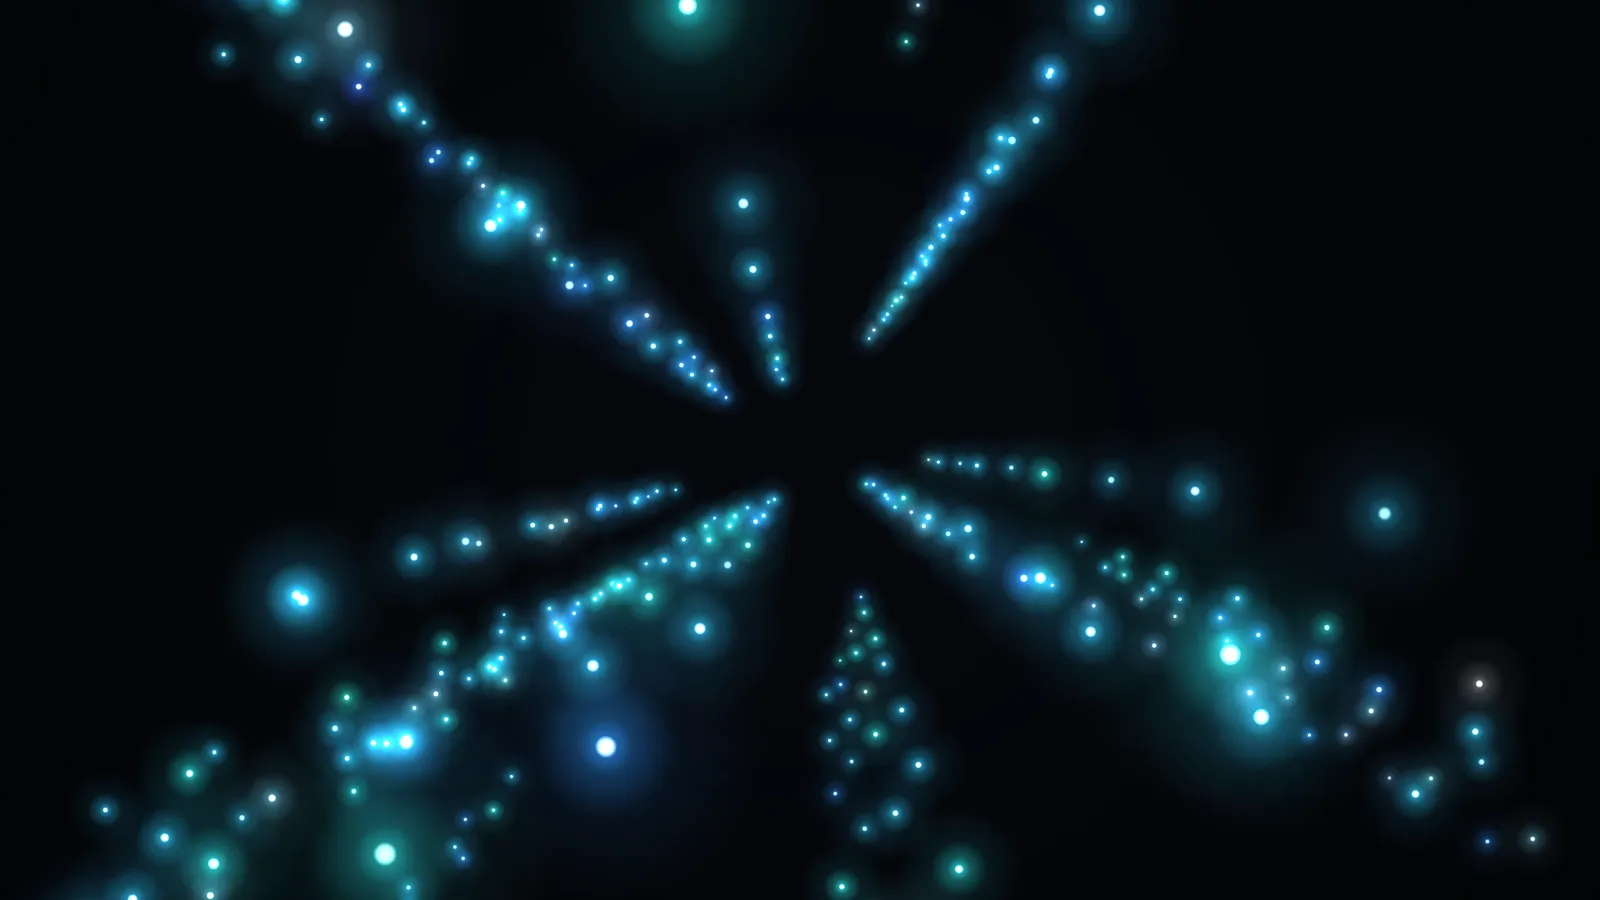
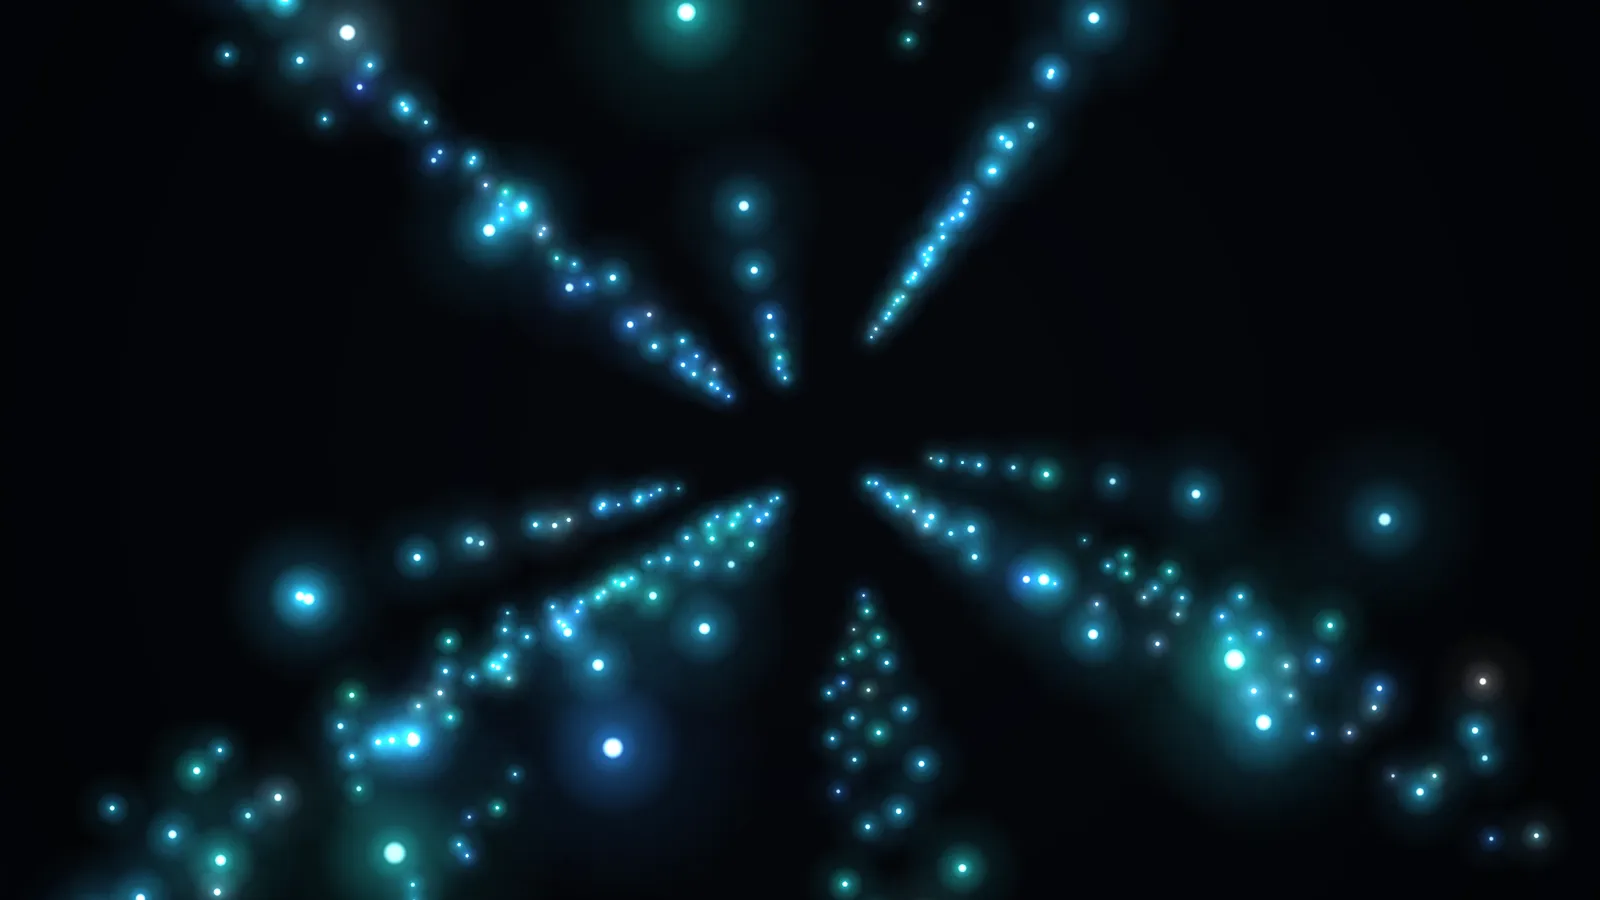
feat(dangler): land on the first preset instead of the raw defaults
Opening the piece gave three stiff strands hanging still — the simplest
thing the machinery can draw, and a fair picture of nothing anybody
would stay for. What it is for is the first preset.

Redirected rather than baked into DEFAULT_SETTINGS. Those are the base
normalizeSettings falls back to and the thing settingsToQuery diffs
against, so moving them would quietly change what every URL already
shared means. The defaults are the vocabulary; which scene is worth
landing on is editorial.

The address is rewritten to match, so a link copied without touching a
control keeps pointing at this scene rather than at whichever preset is
featured later. The rewrite runs last, after the panel/idle/debug/settle
escape hatches have been read from the URL as opened — a spec covers
that, since reading them afterwards would silently stop them working.

The poster recipe now names no preset: it photographs whatever a bare
URL lands on, so the two cannot drift apart.

Also corrects a claim made in the previous commit. Dangler's poster is
not byte-reproducible. The seed fixes the arrangement, but the wind is
derived from the clock too, so the shutter catches the same strands at a
different point in the same breeze.

diff --git a/tests/unit/dangler/settings.test.ts b/tests/unit/dangler/settings.test.ts
@@ -3,8 +3,10 @@ import {
   DEFAULT_SETTINGS,
   PRESETS,
   normalizeSettings,
+  settingsForLanding,
   settingsFromQuery,
   settingsToQuery,
+  urlForSettings,
 } from "@/experiments/dangler/settings"
 
 /**
@@ -62,5 +64,53 @@ describe("presets", () => {
 
   it("has unique labels, since a number key selects one", () => {
     expect(new Set(PRESETS.map((preset) => preset.label)).size).toBe(PRESETS.length)
+  })
+})
+
+/**
+ * What a bare URL means.
+ *
+ * The defaults are three stiff strands hanging still, which is the simplest
+ * thing the machinery can draw and not what the piece is for. Landing shows the
+ * first preset instead — without moving `DEFAULT_SETTINGS`, since those are what
+ * every already-shared URL is written as a diff against.
+ */
+describe("landing", () => {
+  it("shows the first preset when the URL names no settings", () => {
+    const { settings, featured } = settingsForLanding(new URLSearchParams(""))
+    expect(settings).toEqual(normalizeSettings(PRESETS[0]!.settings))
+    expect(featured).toBe(true)
+  })
+
+  it("still shows the first preset when the URL carries only escape hatches", () => {
+    // `panel`, `idle`, `debug` and `settle` are not settings and never appear in
+    // a shared scene, so a URL made only of them carries no scene.
+    const { featured } = settingsForLanding(new URLSearchParams("panel=1&idle=0&settle=1"))
+    expect(featured).toBe(true)
+  })
+
+  it("leaves a URL that names even one setting alone", () => {
+    const { settings, featured } = settingsForLanding(new URLSearchParams("strands=9"))
+    expect(featured).toBe(false)
+    expect(settings.strands).toBe(9)
+    // Everything unnamed stays at the defaults, not at the first preset's values.
+    expect(settings.hue).toBe(DEFAULT_SETTINGS.hue)
+  })
+
+  it("treats blank and unparseable values as naming nothing, exactly as the parser does", () => {
+    // Both of these are skipped by `settingsFromQuery`, so a URL made of them
+    // would otherwise land on the defaults — the state this exists to avoid.
+    expect(settingsForLanding(new URLSearchParams("hue=")).featured).toBe(true)
+    expect(settingsForLanding(new URLSearchParams("hue=nonsense")).featured).toBe(true)
+  })
+
+  it("hands back an address that restores the scene it landed on", () => {
+    const { settings } = settingsForLanding(new URLSearchParams(""))
+    const url = urlForSettings(settings, "/experiments/dangler/")
+    expect(settingsFromQuery(new URLSearchParams(url.split("?")[1]))).toEqual(settings)
+  })
+
+  it("writes no query for a scene that is the defaults", () => {
+    expect(urlForSettings(DEFAULT_SETTINGS, "/experiments/dangler/")).toBe("/experiments/dangler/")
   })
 })

diff --git a/src/experiments/dangler/settings.ts b/src/experiments/dangler/settings.ts
@@ -572,6 +572,56 @@ export function settingsToQuery(settings: Settings): URLSearchParams {
 }
 
 /**
+ * The address that restores exactly this scene.
+ *
+ * One definition with two callers — the chrome, which rewrites the URL on every
+ * change, and the page, which rewrites it once on landing. They disagreed about
+ * nothing yet, and now cannot.
+ */
+export function urlForSettings(settings: Settings, pathname: string): string {
+  const query = settingsToQuery(settings).toString()
+  return `${pathname}${query ? `?${query}` : ""}`
+}
+
+/**
+ * Whether a query string names any setting at all.
+ *
+ * The same rule `settingsFromQuery` applies, and it has to stay the same rule:
+ * absent, blank and unparseable are all "not a setting" there, so a URL made
+ * only of those is one the piece would read as carrying nothing.
+ */
+function namesASetting(params: URLSearchParams): boolean {
+  return (Object.keys(BOUNDS) as NumericKey[]).some((key) => {
+    const raw = params.get(key)
+    return raw !== null && raw.trim() !== "" && Number.isFinite(Number(raw))
+  })
+}
+
+/**
+ * The scene a freshly-opened URL should show.
+ *
+ * A URL naming no settings gets the first preset, not `DEFAULT_SETTINGS`. The
+ * defaults are three stiff strands hanging still — the simplest thing the
+ * machinery can draw, and a fair picture of nothing anybody would stay for.
+ * What the piece is actually *for* is the first preset.
+ *
+ * Deliberately not fixed by moving `DEFAULT_SETTINGS`. They are the base
+ * `normalizeSettings` falls back to and the thing `settingsToQuery` diffs
+ * against, so changing them would quietly change what every URL already shared
+ * means, and shorten or lengthen every future one for unrelated reasons. The
+ * defaults are the vocabulary; which scene is worth landing on is editorial.
+ *
+ * `featured` says the caller should rewrite the address. A landing visitor then
+ * has a URL describing the scene in front of them rather than one standing for
+ * "whatever is featured", which is the difference between a link that keeps
+ * working and a link that silently becomes a different piece.
+ */
+export function settingsForLanding(params: URLSearchParams): { settings: Settings; featured: boolean } {
+  if (namesASetting(params)) return { settings: settingsFromQuery(params), featured: false }
+  return { settings: normalizeSettings(PRESETS[0]!.settings), featured: true }
+}
+
+/**
  * Whether a change needs the chains reallocated.
  *
  * Deliberately short. Everything else — length, stiffness, set, the canopy, the

diff --git a/tests/dangler.spec.ts b/tests/dangler.spec.ts
@@ -1,4 +1,5 @@
 import type { ExperimentApi } from "@/experiments/dangler/api"
+import { DEFAULT_SETTINGS, PRESETS } from "@/experiments/dangler/settings"
 import { expect, openExperiment, test } from "./support/experiment"
 
 /**
@@ -157,4 +158,37 @@ test("a resize does not blank the piece", async ({ page }) => {
   await expect.poll(() => litPixels(page)).toBeGreaterThan(0)
 
   await experiment.shot("resized")
+})
+
+test("a bare URL lands on the first preset, and says so in the address bar", async ({ page }) => {
+  const experiment = await openDangler(page, { idle: true })
+
+  // The scene, not just the address: the defaults are three strands and the
+  // first preset is fifty-two, so this would pass on a redirect that rewrote the
+  // URL without actually loading anything.
+  const landed = await experiment.api(({ api }) => api.get())
+  expect(landed).toEqual(PRESETS[0]!.settings)
+  expect(landed.strands).not.toBe(DEFAULT_SETTINGS.strands)
+
+  // Rewritten, so a link copied without touching a control keeps pointing at
+  // this scene rather than at whichever preset is featured later.
+  const url = new URL(page.url())
+  expect(url.searchParams.get("strands")).toBe(String(PRESETS[0]!.settings.strands))
+
+  // And the rewrite has to be one the piece can read back.
+  await page.goto(page.url())
+  await page.waitForFunction(() => Boolean(window.experiment))
+  expect(await experiment.api(({ api }) => api.get())).toEqual(landed)
+})
+
+test("the escape hatches still work on a bare URL, which the landing rewrite replaces", async ({ page }) => {
+  // `?panel=1` names no setting, so it lands on the preset *and* has to survive
+  // being read before the address is rewritten. Reading it afterwards would
+  // silently stop opening the panel.
+  const experiment = await openDangler(page, { query: { panel: "1" }, idle: false })
+
+  // Asserted on the DOM rather than through `api.panel()`, which toggles when
+  // called with no argument and would close the very thing it was asked about.
+  await expect(page.locator(".panel")).toBeVisible()
+  expect(await experiment.api(({ api }) => api.get())).toEqual(PRESETS[0]!.settings)
 })

diff --git a/src/experiments/dangler/poster.ts b/src/experiments/dangler/poster.ts
@@ -9,12 +9,20 @@ import type { PosterRecipe } from "@/experiments/poster"
  * never actually holds, and nothing about the image says so — a poster that
  * skipped it would be a picture of a scene halfway through falling.
  *
- * `dreamy` carries its own `seed`, so this is reproducible without inventing a
- * poster-only one: the same preset settles to the same arrangement every run.
+ * No preset named, deliberately. A bare URL now lands on the first preset — see
+ * `settingsForLanding` — so opening the piece and photographing it is the same
+ * act, and the poster cannot come to show a scene the landing page does not.
+ * Naming it here would be a second place to change, and the one that gets
+ * forgotten.
+ *
+ * Not byte-reproducible, despite the preset carrying a `seed`. The seed fixes
+ * the *arrangement* — where the anchors sit, how each strand is shaped — and
+ * that comes out the same every run. The sway does not: the wind is derived
+ * from the clock as well as the seed, so the shutter catches the strands at a
+ * different point in the same breeze. Two captures look alike to a person and
+ * differ to `git`, which is the whole reason for the slug filter.
  */
 const poster: PosterRecipe<ExperimentApi> = {
-  preset: "dreamy",
-
   prepare: ({ api }) => {
     // Twice, deliberately. The first pass converges the solver from the layout;
     // the second runs it again from rest, which is where the strands stop

diff --git a/scripts/posters.ts b/scripts/posters.ts
@@ -21,11 +21,13 @@ import startDevServer from "../tests/support/dev-server.ts"
  *    loop is the point, the same way `updated` in the frontmatter is kept
  *    current by hand.
  *
- * Reproducibility is per-piece and not guaranteed. Dangler's poster loads a
- * preset carrying a seed and settles, so it comes out identical every run.
- * Starry Night takes no seed at all, so every run is a different sky and
- * re-capturing it churns the file for no reason. Hence the slug filter: name
- * the pieces you mean, and leave the rest alone.
+ * No capture is byte-reproducible, so re-running this churns whatever it
+ * touches. Starry Night takes no seed and comes out a different sky. Dangler's
+ * landing preset is seeded, which fixes the arrangement, but its wind is
+ * derived from the clock as well, so the strands are caught at a different
+ * point in the same breeze. Neither difference is visible to a person. Hence
+ * the slug filter: name the piece you actually changed, and leave the rest
+ * alone.
  *
  *     npm run posters                 every experiment
  *     npm run posters -- dangler      just this one

diff --git a/src/experiments/dangler/controls.ts b/src/experiments/dangler/controls.ts
@@ -5,7 +5,7 @@ import {
   normalizeSettings,
   PRESETS,
   SEED_BOUNDS,
-  settingsToQuery,
+  urlForSettings,
   type Control,
   type Settings,
 } from "@/experiments/dangler/settings"
@@ -247,9 +247,7 @@ export function createControls({ root, settings, onChange, aboutHref }: Options)
   }
 
   function syncUrl() {
-    const query = settingsToQuery(current).toString()
-    const url = `${window.location.pathname}${query ? `?${query}` : ""}`
-    window.history.replaceState(null, "", url)
+    window.history.replaceState(null, "", urlForSettings(current, window.location.pathname))
   }
 
   function apply(next: Settings) {

diff --git a/src/experiments/AGENTS.md b/src/experiments/AGENTS.md
@@ -53,9 +53,12 @@ src/experiments/<slug>/poster.webp   the result, referenced from about.md
   shows a shape it never holds. Starry Night needs none of that — its layers are
   seeded out of phase, so frame one is already a sky — but takes the brightest of
   twelve tries, since its glimmers are too brief to catch on purpose.
-- **Only Dangler's poster is reproducible.** Its preset carries a seed. Starry
-  Night takes no seed at all, so re-running it churns the file for a different
-  sky. That is the reason for the slug filter.
+- **No poster is byte-reproducible, for two different reasons.** Starry Night
+  takes no seed at all, so a re-capture is a different sky. Dangler's landing
+  preset does carry one, which fixes the arrangement — but its wind is derived
+  from the clock too, so the shutter catches the same strands at a different
+  point in the same breeze. Both look unchanged to a person and both churn the
+  file. Hence the slug filter: re-capture the piece you actually changed.
 - `scripts/posters.ts` is generic and knows nothing about any piece; the shared
   contract is the types in `src/experiments/poster.ts`. Per ADR-0002 that is all
   it is allowed to be — a shape, not a base class.

diff --git a/src/experiments/dangler/AGENTS.md b/src/experiments/dangler/AGENTS.md
@@ -155,6 +155,13 @@ screen — a wrong strand and a right one both look like a scatter of dots.
 - **Settings round-trip through the query string.** Anything added to `Settings`
   needs a `Control` (or explicit handling) or the panel and shared URLs quietly
   disagree.
+- **`DEFAULT_SETTINGS` is the vocabulary, not the scene anyone lands on.** A bare
+  URL gets `PRESETS[0]` and the address is rewritten to match; see
+  `settingsForLanding`. Do not "fix" the dull landing scene by moving the
+  defaults — they are the base `normalizeSettings` falls back to and the thing
+  `settingsToQuery` diffs against, so changing them rewrites what every URL
+  already shared means. The poster names no preset for the same reason: it
+  photographs whatever a bare URL lands on, so the two cannot drift apart.
 - **Core radii stay at or above `MIN_CORE_PX`**, trading size for alpha below it.
   Starry Night's sub-pixel lesson applies here unchanged.
 - **The wind stays pure.** Gusts are derived from the clock and the seed rather

diff --git a/src/experiments/dangler/about.md b/src/experiments/dangler/about.md
@@ -64,6 +64,11 @@ together after a couple of seconds of stillness, like video chrome. Keys `1`,
 the whole scene — the seed included — lives in the address bar, so anything
 worth keeping can be copied or shared.
 
+You arrive on the first preset rather than on the bare machinery, and the
+address bar is filled in to match on the way in. The link you landed on is
+therefore already a link to what you are looking at, and it keeps meaning that
+even after something else becomes the one you arrive on.
+
 The controls worth reaching for first: **height** and **length** together decide
 the composition, and it is the ratio of the two that matters rather than either
 alone — a short strand under a high ceiling barely fans out at all. **stiffness**
